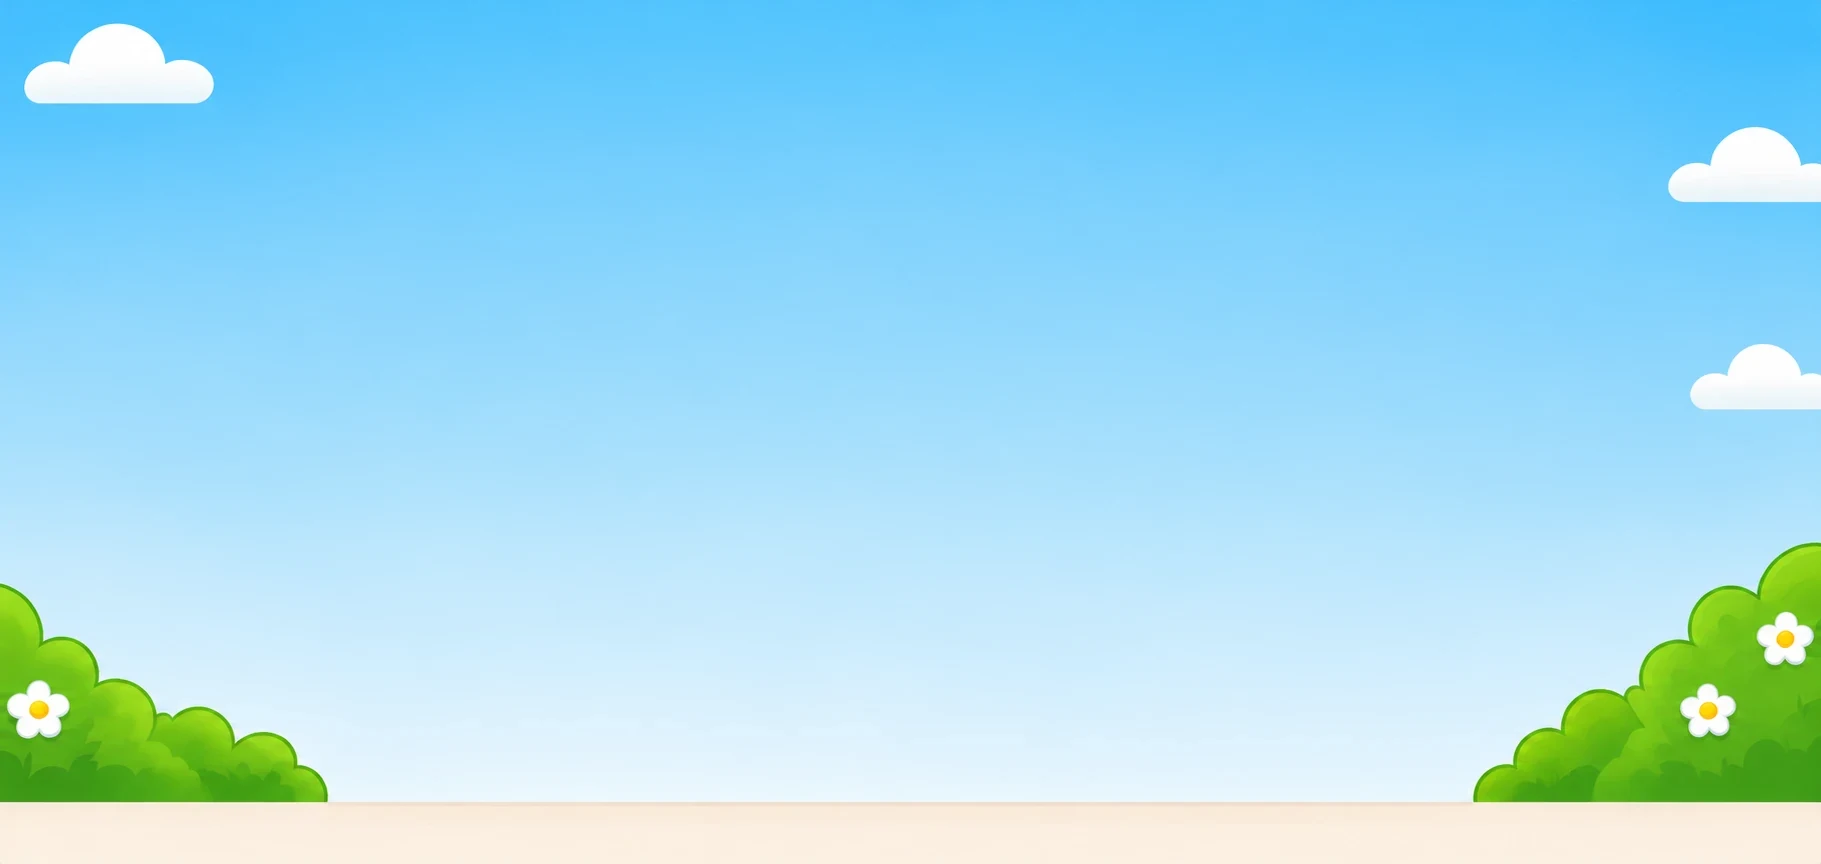
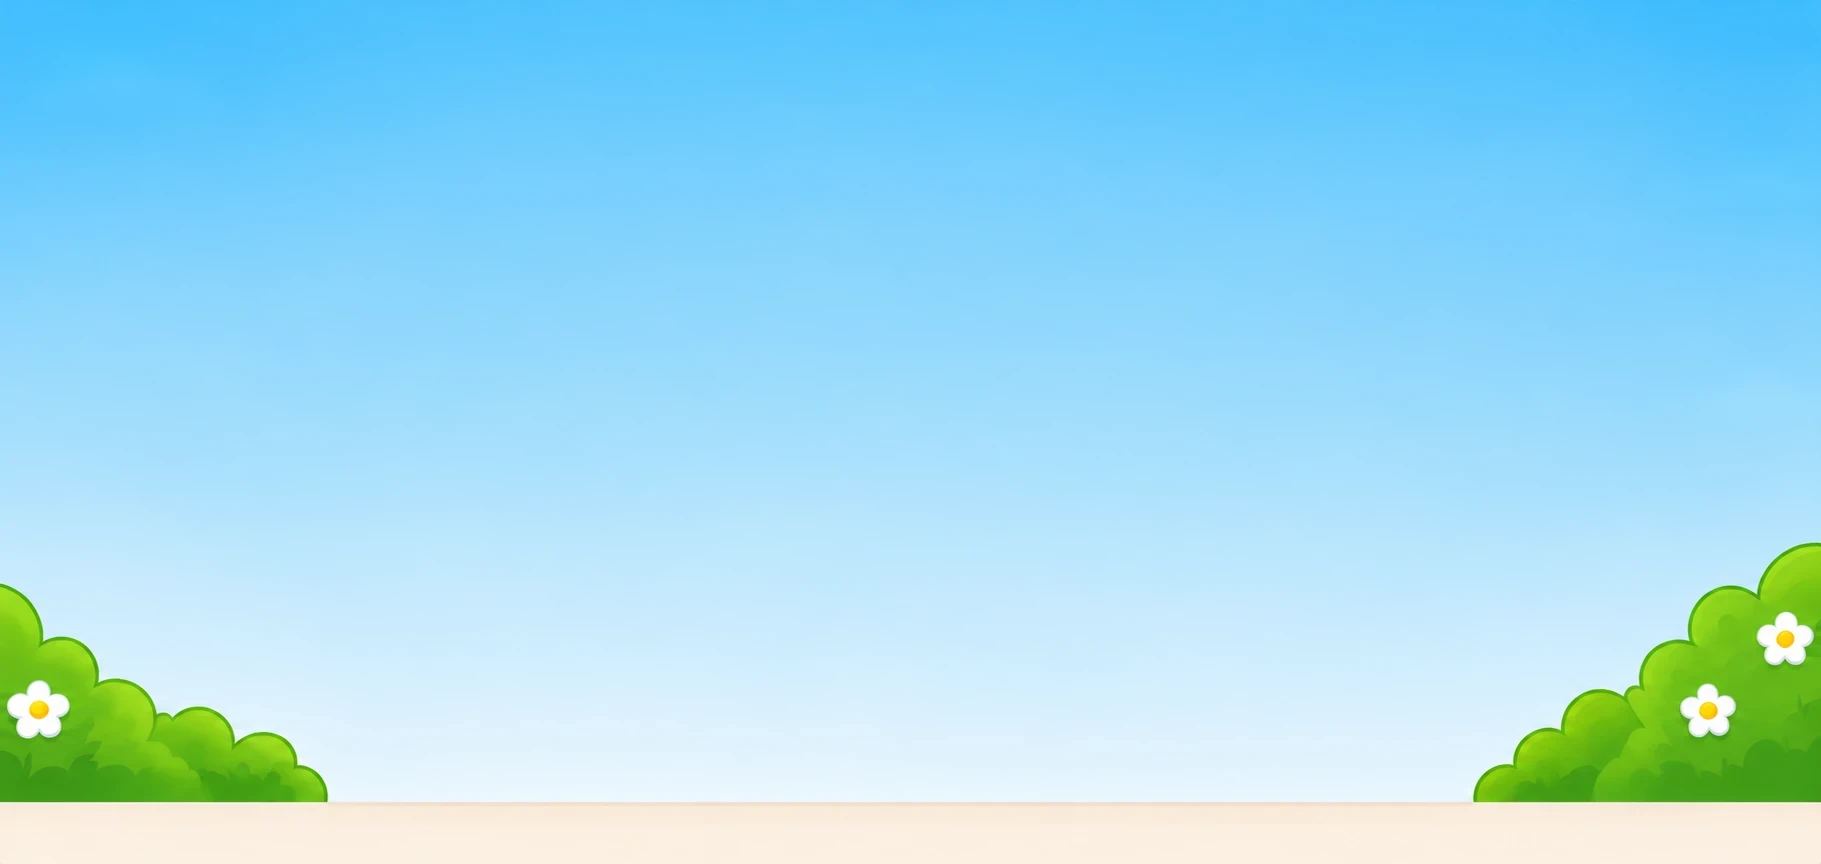
Shop: dời quầy sang trái cho cân giữa; mây đặt theo khung màn hình (không bị cắt ở mép)
Claude-Session: https://claude.ai/code/session_01Xqfit1TE88fdJNq9wU4RBg

Changed region(s): [[0.8918, 0.125, 1.0, 0.25], [0.9226, 0.375, 1.0, 0.5], [0.0, 0.0312, 0.123, 0.125]]

diff --git a/frontend/src/index.css b/frontend/src/index.css
@@ -1259,6 +1259,11 @@ a.sb-slot:hover { transform: translateY(-1.4cqw) rotate(-0.6deg); z-index: 5; }
 
 /* ===== Shop: quầy hàng có mái hiên, 2 kệ × 4 ô (màn hình rộng) ===== */
 .sh-room { height: calc(100dvh - 73px); overflow: hidden; display: flex; align-items: flex-end; justify-content: center; background: #5BC6FF url(/shop/shop-bg.webp) center bottom / cover no-repeat; }
+.sh-cloud { position: absolute; z-index: 0; height: auto; pointer-events: none; user-select: none; }
+.sh-cloud-1 { left: 3.5%; top: 19%; width: 9%; }
+.sh-cloud-2 { right: 3.5%; top: 21%; width: 7.5%; transform: scaleX(-1); }
+.sh-cloud-3 { right: 5.5%; top: 41%; width: 5.5%; }
+.sh-room { position: relative; }
 .sh-stage { position: relative; flex: none; width: min(100%, calc((100dvh - 73px) * 1821 / 1040)); aspect-ratio: 1821 / 1040; overflow: hidden; }
 .sh-inner { position: absolute; inset: 0; container-type: inline-size; }
 .sh-art { position: absolute; inset: 0; width: 100%; height: 100%; z-index: 1; }
@@ -1266,10 +1271,10 @@ a.sb-slot:hover { transform: translateY(-1.4cqw) rotate(-0.6deg); z-index: 5; }
 .sh-sign b { font-family: var(--font-display); font-weight: 900; font-size: 5.6cqw; line-height: 1; color: #7A4313; text-shadow: 0 0.2cqw 0 #FFE2A0; }
 .sh-sign-star { width: 3.6cqw; flex: none; }
 .sh-bag { width: 4.3cqw; flex: none; }
-.sh-tabs { position: absolute; z-index: 4; display: flex; flex-direction: column; gap: 1cqw; padding: 1.3cqw; border: max(3px, 0.3cqw) solid #FFFFFF; border-radius: 2.6cqw; background: linear-gradient(#F77E8A, #E8525F); box-shadow: 0 0.6cqw 1.2cqw rgba(150, 30, 45, 0.35), inset 0 0 0 max(2px, 0.2cqw) #F2A0A8; }
-.sh-tab { flex: 1; display: flex; align-items: center; gap: 0.8cqw; padding: 0 1cqw; border: 0; border-radius: 2cqw; background: #FFF7F5; box-shadow: inset 0 -0.3cqw 0 #F0D2D2; cursor: pointer; font-family: var(--font-display); font-weight: 900; font-size: max(12px, 1.38cqw); white-space: nowrap; color: #3A1F26; text-align: left; }
+.sh-tabs { position: absolute; z-index: 4; display: flex; flex-direction: column; gap: 1cqw; padding: 1.1cqw; border: max(3px, 0.3cqw) solid #FFFFFF; border-radius: 2.6cqw; background: linear-gradient(#F77E8A, #E8525F); box-shadow: 0 0.6cqw 1.2cqw rgba(150, 30, 45, 0.35), inset 0 0 0 max(2px, 0.2cqw) #F2A0A8; }
+.sh-tab { flex: 1; display: flex; align-items: center; gap: 0.8cqw; padding: 0 1cqw; border: 0; border-radius: 2cqw; background: #FFF7F5; box-shadow: inset 0 -0.3cqw 0 #F0D2D2; cursor: pointer; font-family: var(--font-display); font-weight: 900; font-size: max(11px, 1.15cqw); white-space: nowrap; color: #3A1F26; text-align: left; }
 .sh-tab:hover { filter: brightness(1.03); }
-.sh-tab-icon { font-size: max(20px, 2.3cqw); line-height: 1; }
+.sh-tab-icon { font-size: max(18px, 2cqw); line-height: 1; }
 .sh-tab-on { background: linear-gradient(#FFE79A, #FFD04F); box-shadow: inset 0 0.3cqw 0 rgba(255, 255, 255, 0.8), 0 0.25cqw 0 #E0A21A; }
 .sh-card { position: absolute; z-index: 4; border: 0.3cqw solid #F9D3D6; border-radius: 1.7cqw; background: #FFFFFF; box-shadow: 0 0.7cqw 1.2cqw rgba(120, 50, 40, 0.22), inset 0 0 0 0.2cqw #FFF1F1; }
 .sh-ci { position: relative; width: 100%; height: 100%; container-type: inline-size; }

diff --git a/frontend/src/pages/Shop/Shop.jsx b/frontend/src/pages/Shop/Shop.jsx
@@ -35,7 +35,7 @@ function Preview({ item, scene = false }) {
 // Cảnh quầy hàng (khung 1821×864, nền trời là ảnh): 2 kệ × 4 ô, bảng chọn loại ở bên trái.
 const W = SHOP_W;
 const H = SHOP_H;
-const COLS = [368, 670, 972, 1274];
+const COLS = [320, 622, 924, 1226]; // đã dịch trái 48 theo quầy
 const SLOTS = [
   ...COLS.map((x) => [x, 360, 284, 262]),
   ...COLS.map((x) => [x, 700, 284, 250]),
@@ -147,17 +147,20 @@ export default function Shop() {
     ];
     return (
       <div className="sh-room">
+        <img src="/shop/cloud.webp" alt="" className="sh-cloud sh-cloud-1" draggable={false} />
+        <img src="/shop/cloud.webp" alt="" className="sh-cloud sh-cloud-2" draggable={false} />
+        <img src="/shop/cloud.webp" alt="" className="sh-cloud sh-cloud-3" draggable={false} />
         <div className="sh-stage" data-testid="shop-stall">
           <div className="sh-inner">
           <h1 className="sr-only" data-testid="shop-title">{t('shop.title')}</h1>
           <span className="sr-only" data-testid="shop-ruby">{shop.ruby} Ruby</span>
 
           <ShopArt />
-          <div className="sh-sign" style={box([738, 104, 456, 112])}>
+          <div className="sh-sign" style={box([690, 104, 456, 112])}>
             <Bag /> <b>{t('shop.title')}</b>
           </div>
 
-          <div className="sh-tabs" style={box([26, 340, 296, 300])} role="tablist">
+          <div className="sh-tabs" style={box([8, 340, 262, 300])} role="tablist">
             {tabs.map(([k, icon, label]) => (
               <button key={k} type="button" role="tab" aria-selected={tab === k} className={`sh-tab${tab === k ? ' sh-tab-on' : ''}`} onClick={() => { setTab(k); setPage(0); }} data-testid={`shop-tab-${k}`}>
                 <span className="sh-tab-icon" aria-hidden="true">{icon}</span>
@@ -180,11 +183,11 @@ export default function Shop() {
           ))}
           {pages > 1 && (
             <>
-              <button type="button" className="sh-arrow" style={box([770, 986, 48, 44])} disabled={cur === 0} onClick={() => setPage(cur - 1)} aria-label={t('common.back')} data-testid="shop-prev">
+              <button type="button" className="sh-arrow" style={box([722, 986, 48, 44])} disabled={cur === 0} onClick={() => setPage(cur - 1)} aria-label={t('common.back')} data-testid="shop-prev">
                 <Icon name="back" size={22} strokeWidth={3.4} />
               </button>
-              <span className="sh-page" style={box([826, 991, 84, 34])}>{cur + 1}/{pages}</span>
-              <button type="button" className="sh-arrow" style={box([906, 986, 48, 44])} disabled={cur >= pages - 1} onClick={() => setPage(cur + 1)} aria-label={t('common.next')} data-testid="shop-next">
+              <span className="sh-page" style={box([778, 991, 84, 34])}>{cur + 1}/{pages}</span>
+              <button type="button" className="sh-arrow" style={box([858, 986, 48, 44])} disabled={cur >= pages - 1} onClick={() => setPage(cur + 1)} aria-label={t('common.next')} data-testid="shop-next">
                 <Icon name="chevronRight" size={22} strokeWidth={3.4} />
               </button>
             </>

diff --git a/frontend/src/components/ShopScene.jsx b/frontend/src/components/ShopScene.jsx
@@ -146,8 +146,8 @@ function Sign() {
 function LeftPanel() {
   return (
     <g filter="url(#shf-soft)">
-      <rect x="26" y="340" width="296" height="300" rx="48" fill="url(#shg-panel)" stroke="#FFFFFF" strokeWidth="6" />
-      <rect x="38" y="352" width="272" height="276" rx="38" fill="none" stroke="#FFC2C8" strokeWidth="3" />
+      <rect x="8" y="340" width="262" height="300" rx="46" fill="url(#shg-panel)" stroke="#FFFFFF" strokeWidth="6" />
+      <rect x="20" y="352" width="238" height="276" rx="36" fill="none" stroke="#FFC2C8" strokeWidth="3" />
     </g>
   );
 }
@@ -205,6 +205,7 @@ export function ShopArt() {
   return (
     <svg viewBox={`0 0 ${SHOP_W} ${SHOP_H}`} className="sh-art" aria-hidden="true" preserveAspectRatio="none">
       <Defs />
+      <g transform="translate(-48 0)">
       {/* tường quầy */}
       <rect x="372" y="300" width="1188" height="660" fill="url(#shg-wall)" />
       <rect x="372" y="656" width="1188" height="304" fill="url(#shg-wood)" />
@@ -220,6 +221,7 @@ export function ShopArt() {
       <Corbel side="r" />
       <Awning />
       <Sign />
+      </g>
       <LeftPanel />
       <BrushCup />
       <Palette />
